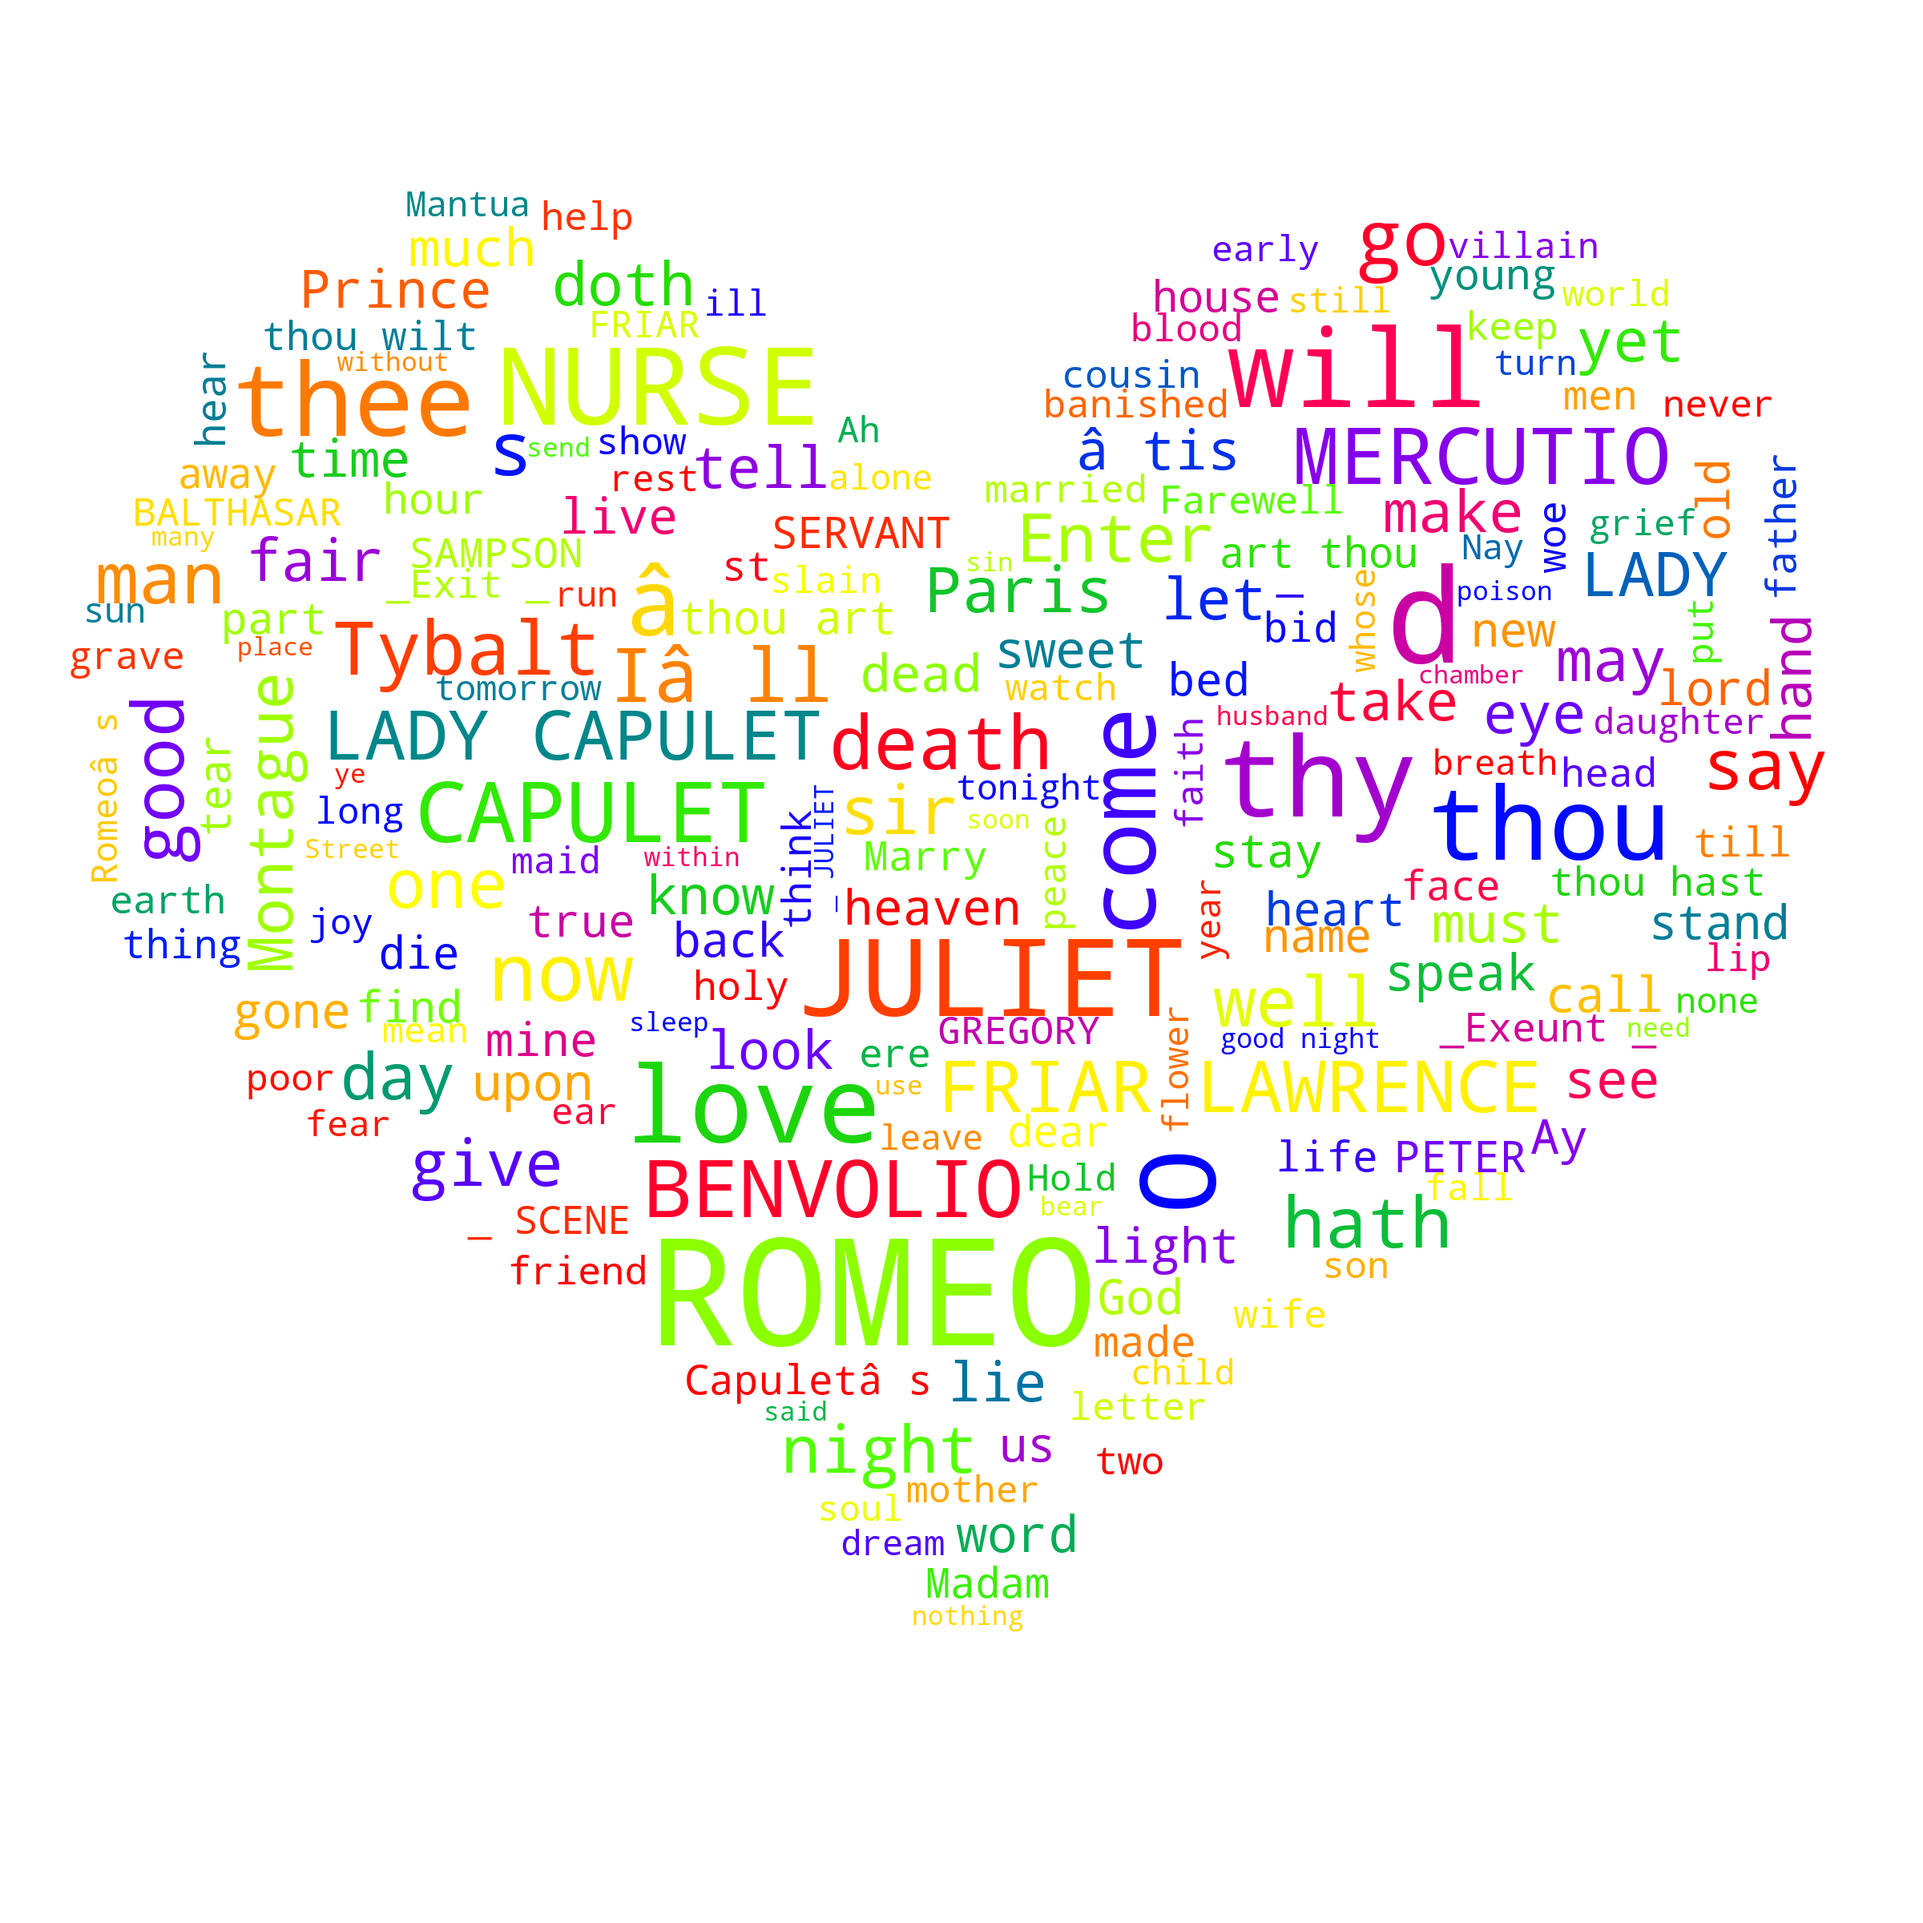
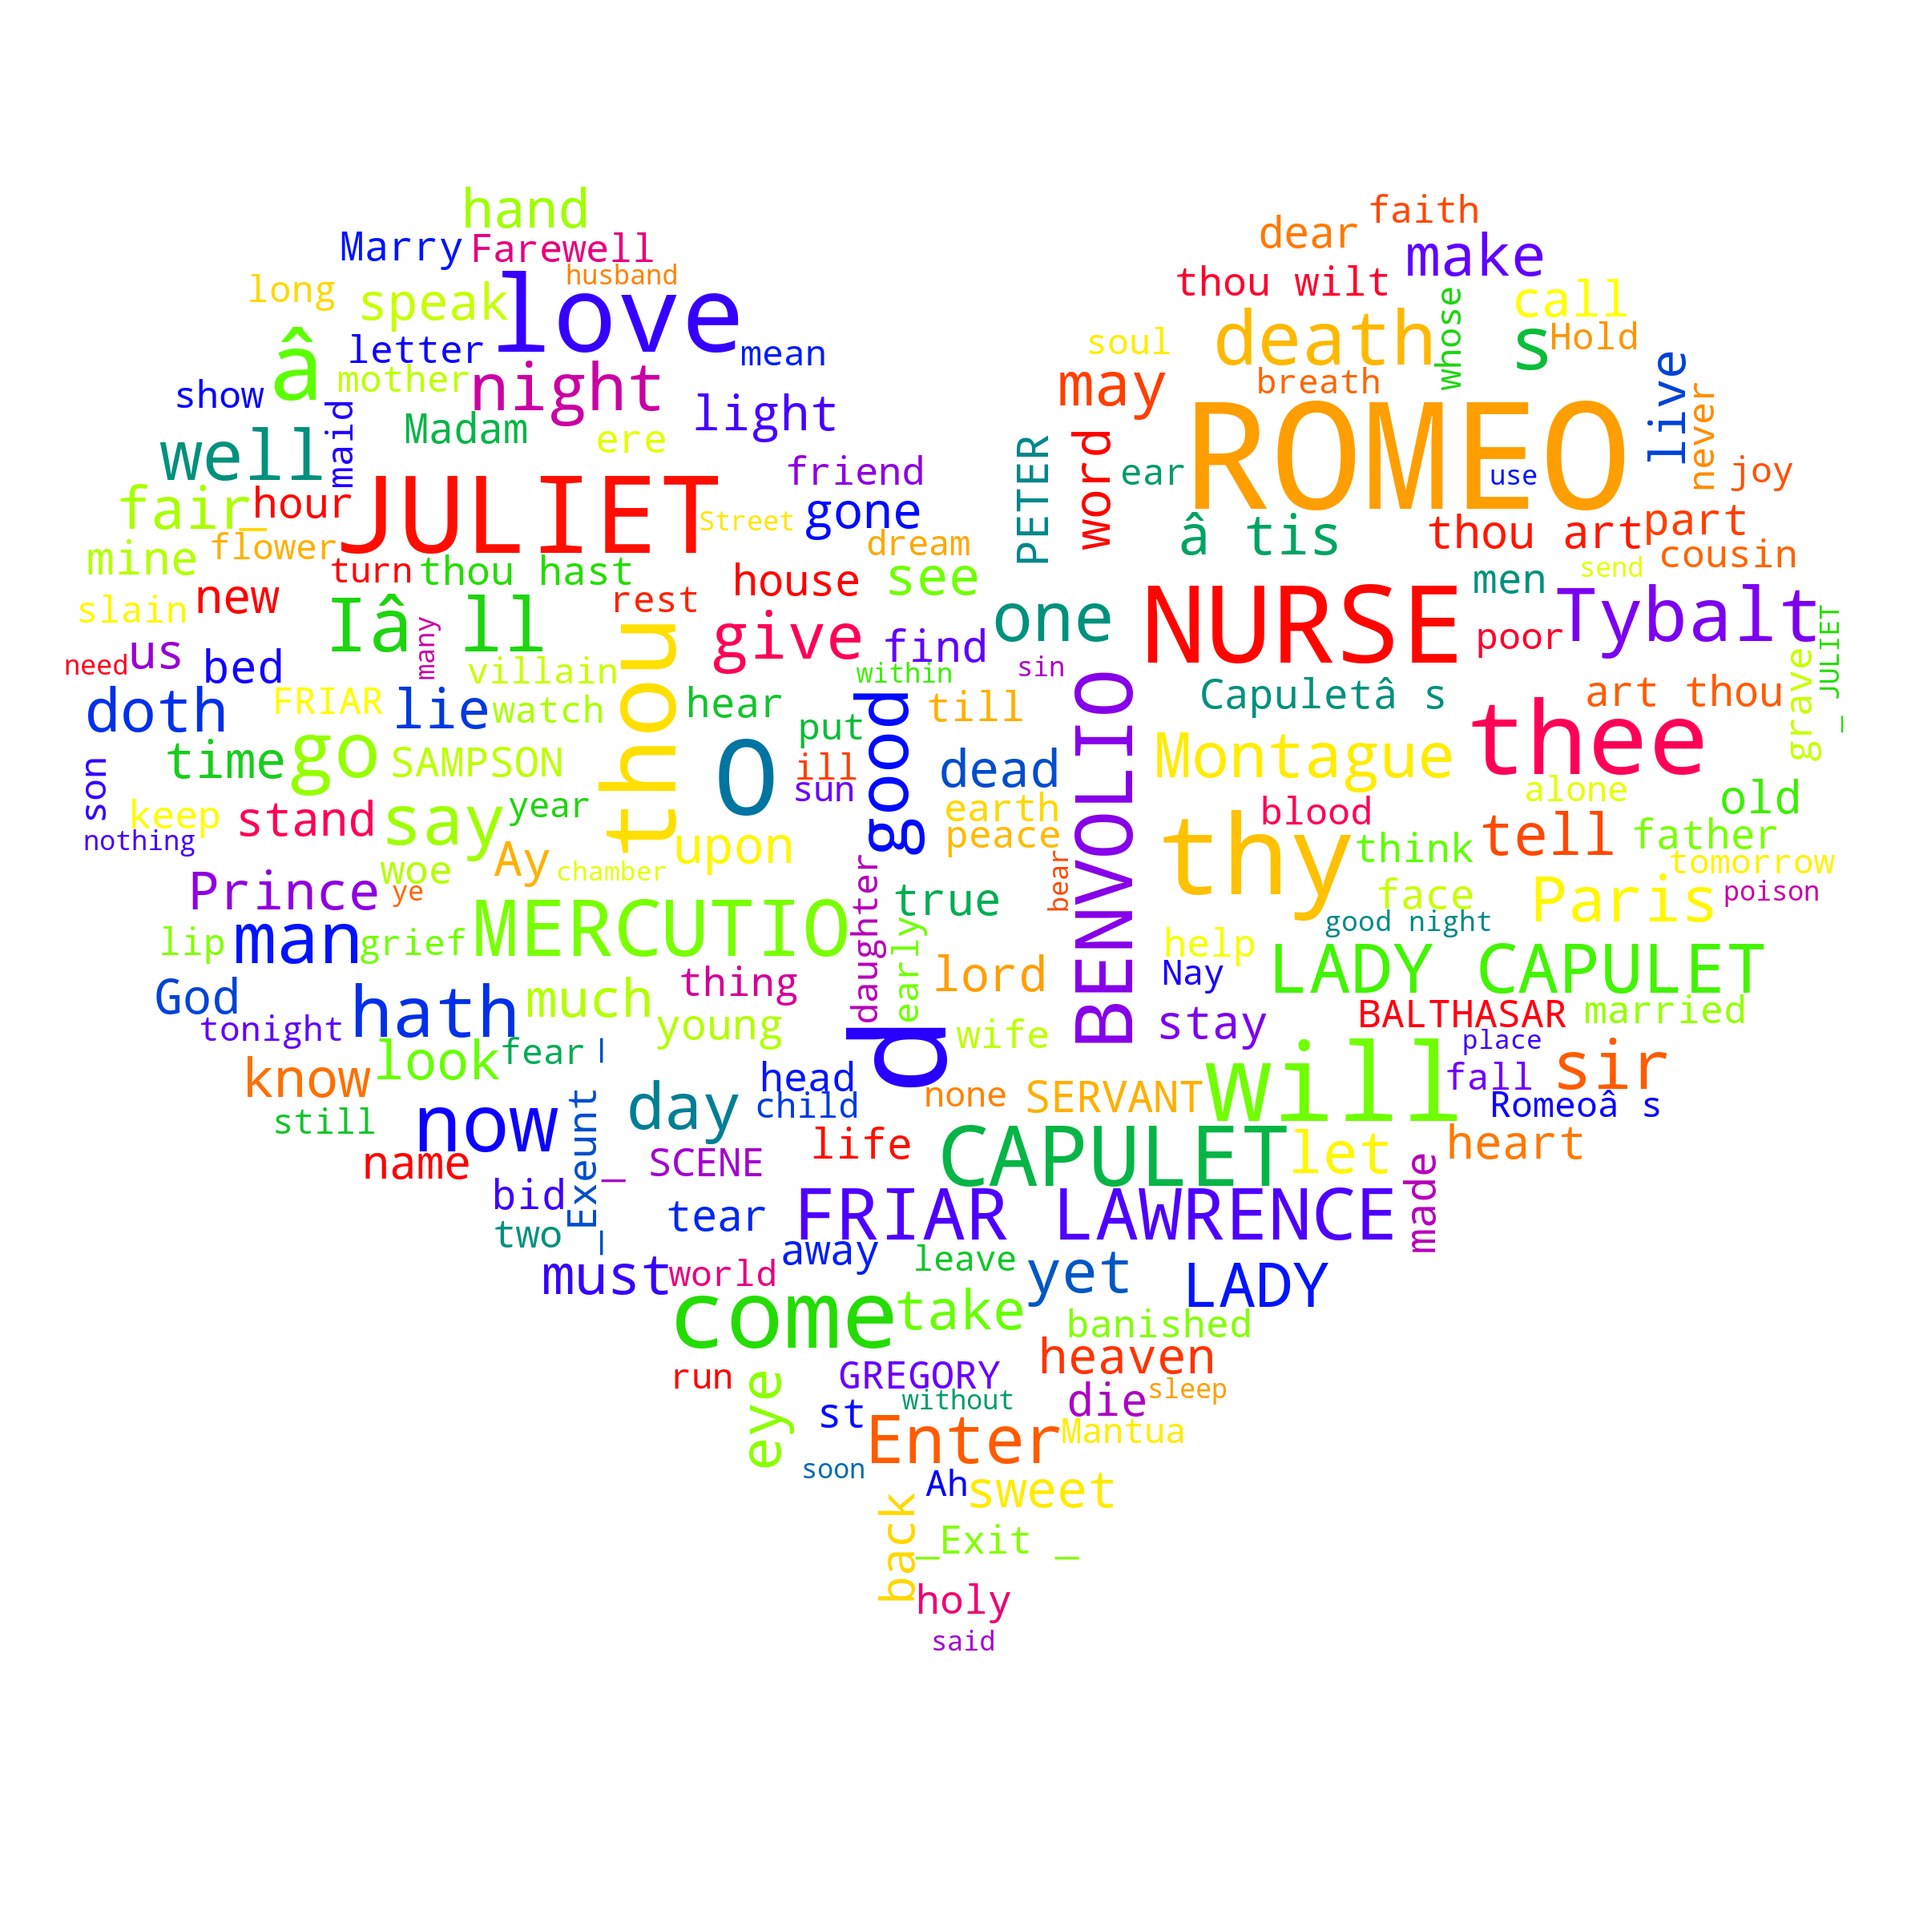
working on homework

Changed region(s): [[0.0312, 0.0938, 0.9688, 0.8438]]

diff --git a/NLP Exercise.py b/NLP Exercise.py
@@ -1,0 +1,46 @@
+from textblob import TextBlob
+import nltk
+
+from nltk.corpus import stopwords
+from pathlib import Path
+
+import pandas as pd
+
+blob = TextBlob(Path("book of John text.txt").read_text())
+
+
+stops = stopwords.words("english")
+
+more_stops = ["thy", "ye", "verily", "thee", "hath", "say", "thou", "art", "shall"]
+
+stops += more_stops
+
+items = blob.word_counts.items()
+
+clean_items = [item for item in items if item[0] not in stops]
+
+
+from operator import itemgetter
+
+
+sorted_items = sorted(clean_items, key=itemgetter(1), reverse=True)
+
+
+top15 = sorted_items[:15]
+
+
+import matplotlib.pyplot as plt
+from wordcloud import WordCloud
+
+
+
+
+wordcloud = WordCloud(colormap="prism", background_color="gray")
+
+wordcloud = wordcloud.generate(str(top15))
+
+wordcloud = wordcloud.to_file("BookOfJohnTop15.png")
+
+
+plt.imshow(wordcloud)
+print("done")
